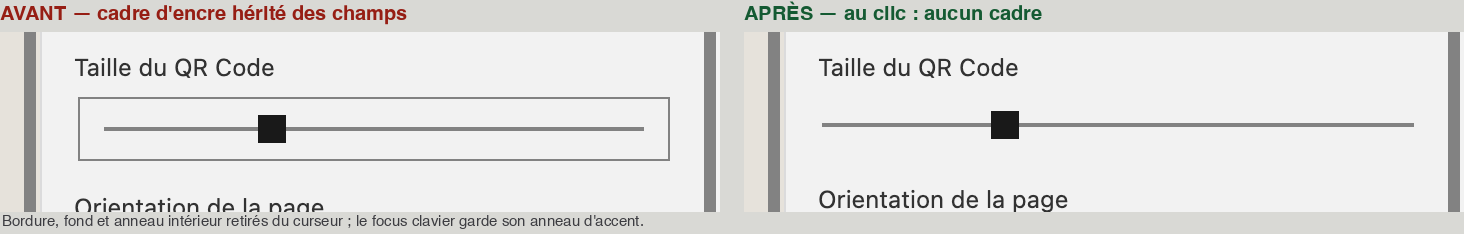
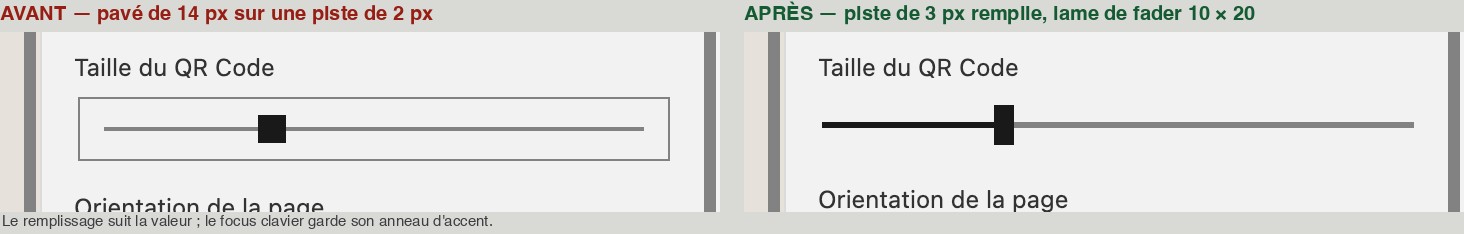
Affine le curseur : piste remplie et lame de fader
- Piste de 3 px, partie utile remplie d'encre (--slider-pct posé par app.js).
- Pouce 10 x 20 px au lieu d'un pavé 14 x 14 : rapport 3:10 au lieu de 2:14.
- Même traitement Firefox (range-progress) ; focus clavier inchangé.
- Tests 1100/1100, avant/après dans mockup/curseur-avant-apres.png.

diff --git a/src/web/style.css b/src/web/style.css
@@ -1978,27 +1978,38 @@ input[type="range"] {
   height: var(--control-sm);
   background: transparent;
   cursor: pointer;
+  /* Remplissage : `--slider-pct` est posé par `app.js` à chaque changement. La
+     piste se lit ainsi d'un coup d'œil — la partie utile est en encre, le
+     reste en filet. */
+  --slider-pct: 0%;
 }
 
 input[type="range"]::-webkit-slider-runnable-track {
-  height: 2px;
-  background: var(--border-strong);
+  height: 3px;
+  background: linear-gradient(
+    to right,
+    var(--ink) 0 var(--slider-pct),
+    var(--border-strong) var(--slider-pct) 100%
+  );
 }
 
+/* Une lame de fader plutôt qu'un pavé : 20 px de haut pour une piste de 3 px,
+   et une largeur de 10 px. Le rapport est lisible, la cible confortable. */
 input[type="range"]::-webkit-slider-thumb {
   appearance: none;
   -webkit-appearance: none;
-  width: 14px;
-  height: 14px;
-  margin-top: -6px;
+  width: 10px;
+  height: 20px;
+  margin-top: -8.5px;
   border: 0;
   border-radius: var(--radius);
   background: var(--ink);
 }
 
-input[type="range"]::-moz-range-track { height: 2px; background: var(--border-strong); }
+input[type="range"]::-moz-range-track { height: 3px; background: var(--border-strong); }
+input[type="range"]::-moz-range-progress { height: 3px; background: var(--ink); }
 input[type="range"]::-moz-range-thumb {
-  width: 14px; height: 14px; border: 0; border-radius: var(--radius); background: var(--ink);
+  width: 10px; height: 20px; border: 0; border-radius: var(--radius); background: var(--ink);
 }
 
 input[type="range"]:focus-visible {

diff --git a/src/web/app.js b/src/web/app.js
@@ -6608,6 +6608,29 @@ function switchMode(next) {
   renderPreview();
 }
 
+/**
+ * Pose le pourcentage rempli de chaque curseur.
+ *
+ * Le CSS ne sait pas lire la valeur d'un `input[type="range"]` : la partie
+ * utile de la piste est donc peinte à partir d'une variable, mise à jour à
+ * chaque geste et au démarrage.
+ */
+function wireRangeProgress() {
+  for (const range of document.querySelectorAll('input[type="range"]')) {
+    const maj = () => {
+      const min = Number(range.min || 0);
+      const max = Number(range.max || 100);
+      const valeur = Number(range.value || min);
+      const pct = max > min ? ((valeur - min) / (max - min)) * 100 : 0;
+      range.style.setProperty('--slider-pct', `${pct}%`);
+    };
+    maj();
+    range.addEventListener('input', maj);
+  }
+}
+
+wireRangeProgress();
+
 el.addForm.addEventListener('submit', (event) => {
   event.preventDefault();
   addFromInput();

diff --git a/docs/design-options/journal-refonte.md b/docs/design-options/journal-refonte.md
@@ -132,6 +132,8 @@ Le dernier étage du système : les paddings, les variantes, les contrôles nati
 
 **Correctif après revue (même jour)** : le curseur « Taille du QR Code » porte la classe `.input` pour sa largeur, et héritait donc du filet, du fond de focus et de l'anneau intérieur d'encre des champs — un cadre noir épais au clic. Remise à zéro ciblée (`border: 0`, fond et `box-shadow` neutralisés) ; le focus clavier garde son anneau d'accent de 2 px. Test de garde ajouté (`design-scale`), comparaison visuelle : `mockup/curseur-avant-apres.png`.
 
+**Deuxième passe, après revue** : le curseur restait brut et disproportionné (pavé de 14 px sur une piste de 2 px). Redessiné en **lame de fader** : piste de **3 px** dont la partie utile est remplie d'encre (variable `--slider-pct` posée par `app.js` à chaque geste), pouce de **10 × 20 px**. Le rapport 3:10 remplace 2:14, et la valeur se lit sans lire le nombre.
+
 **Flake connu** : le test de l'encart de consentement (minuterie `settle()`) échoue environ une fois sur trois sous charge, puis repasse. Il est indépendant de la refonte ; à stabiliser séparément.
 
 ---
